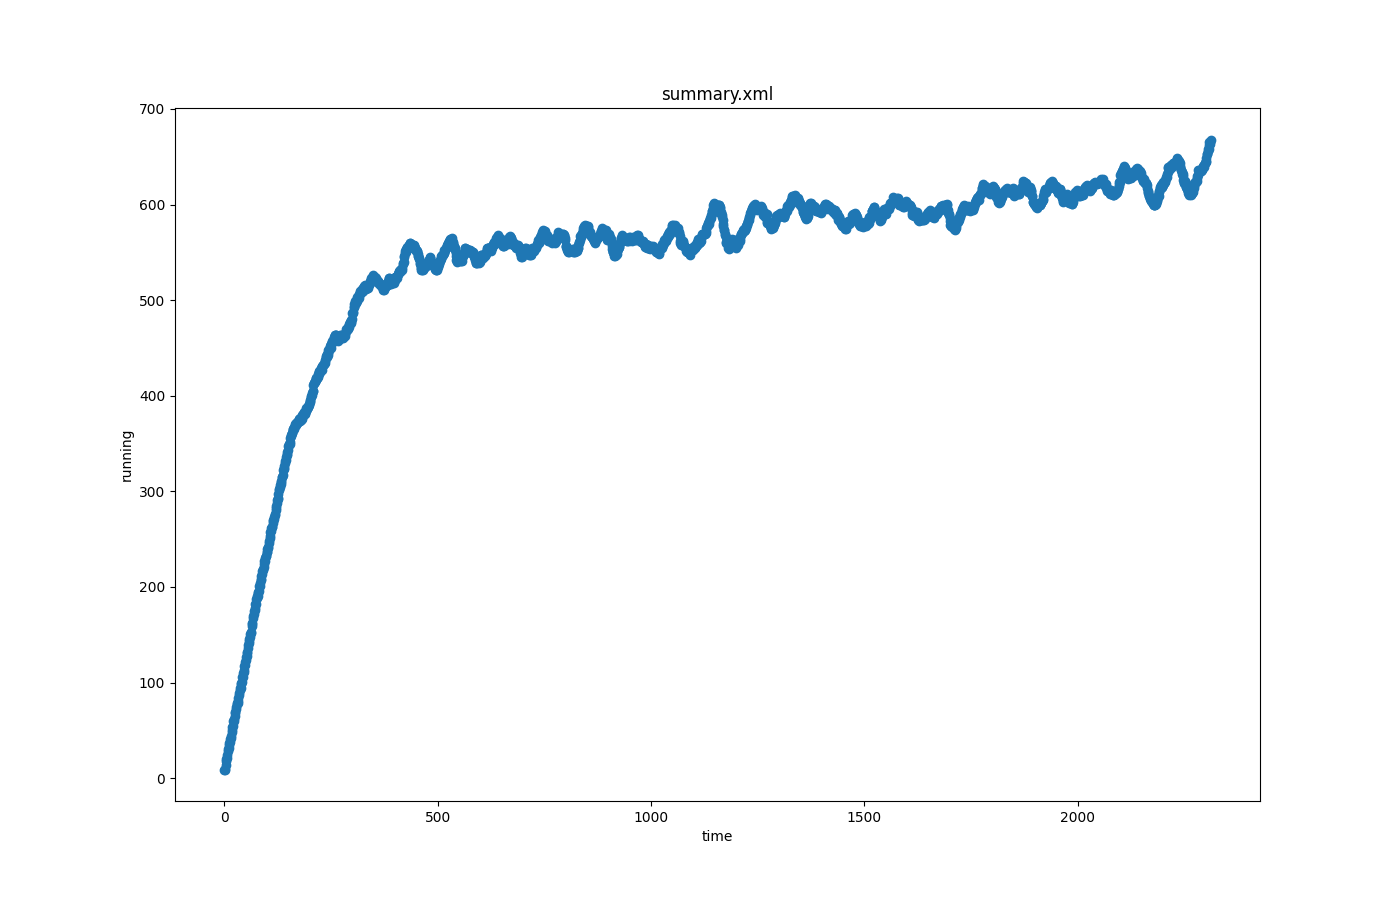
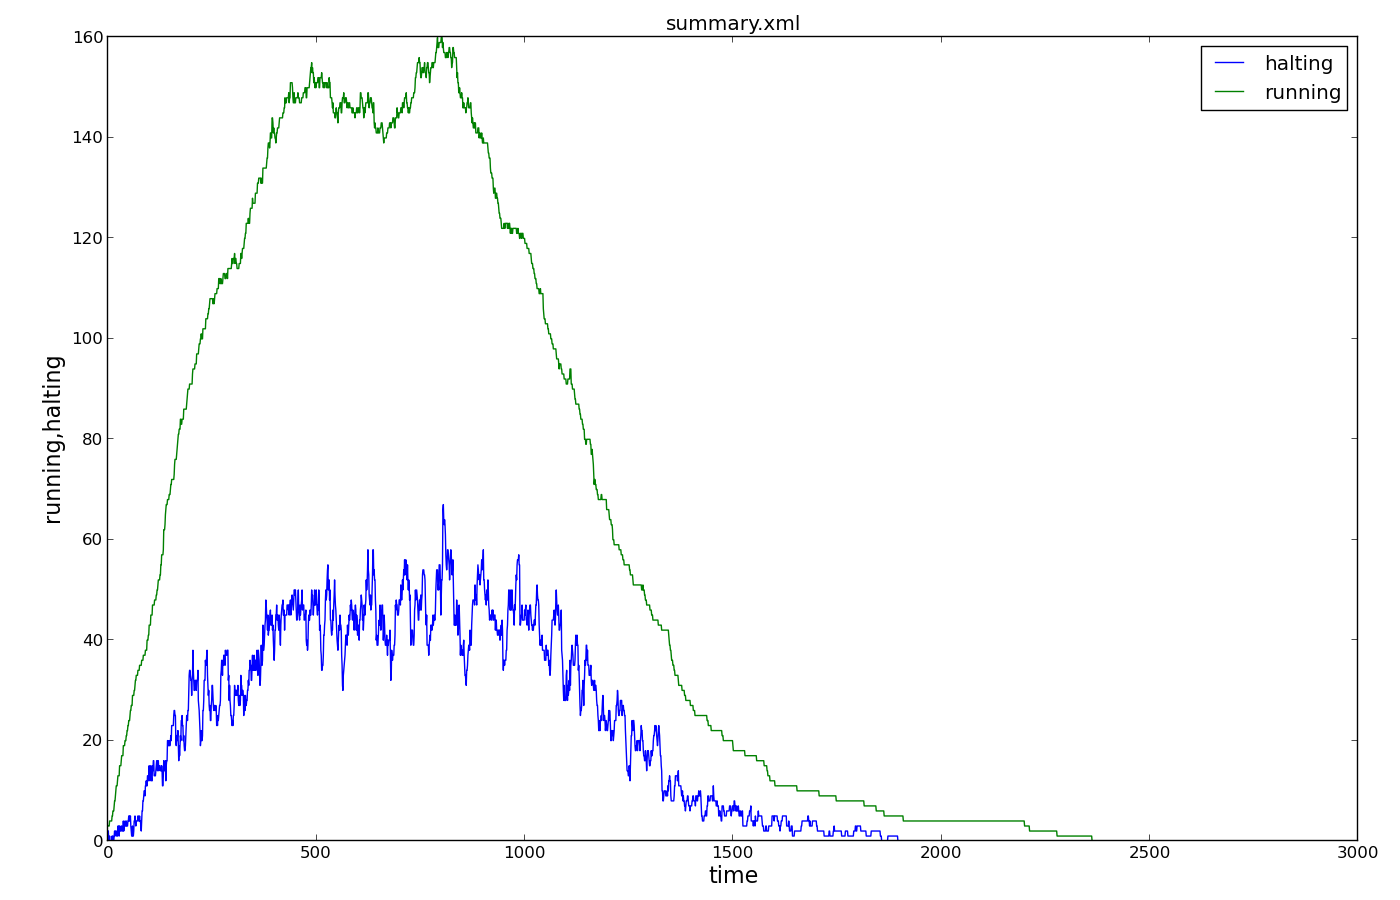
spicing up summary plots. refs #2, #12015

diff --git a/docs/web/docs/Tools/Visualization.md b/docs/web/docs/Tools/Visualization.md
@@ -100,16 +100,18 @@ Each color gives encodes a different edge-id. Option **--factor 60** is used to 
 
 <img src="../images/plotAttrs_fundamental.png" width="500px"/>
 
-### Running from Summary
+### Running and halting vehicles over time from Summary-output
 
 Input is [summary](../Simulation/Output/Summary.md):
 
-Call: `python tools/visualization/plotXMLAttributes.py -x time -y running -o plot-running.png --scatterplot summary.xml`
+Call: `python tools/visualization/plotXMLAttributes.py -x time -y running,halting -o plot-running.png summary.xml, --legend`
 
 <img src="../images/plot-running.png" width="500px"/>
 
 !!! caution
-    In version 1.15.0 and lower, the id-attribute must be provided so you need to provide a dummy value (i.e. with `-i running`)
+    In version 1.15.0 and lower, the id-attribute must be provided so you need
+    to provide a dummy value (i.e. with `-i collisions`) and only a single value is
+    permitted for the x and y attribute.
 
 ### Depart delay over time from TripInfo data
 The plot is created out of [TripInfo](../Simulation/Output/TripInfo.md) output data:

diff --git a/docs/web/docs/Simulation/Output/Summary.md b/docs/web/docs/Simulation/Output/Summary.md
@@ -57,7 +57,7 @@ is given in the table below.
 
 ## Visualization examples
 
-### Number of running vehicles over time
+### Number of running and halting vehicles over time
 
 ![plot-running](../../images/plot-running.png)
 
